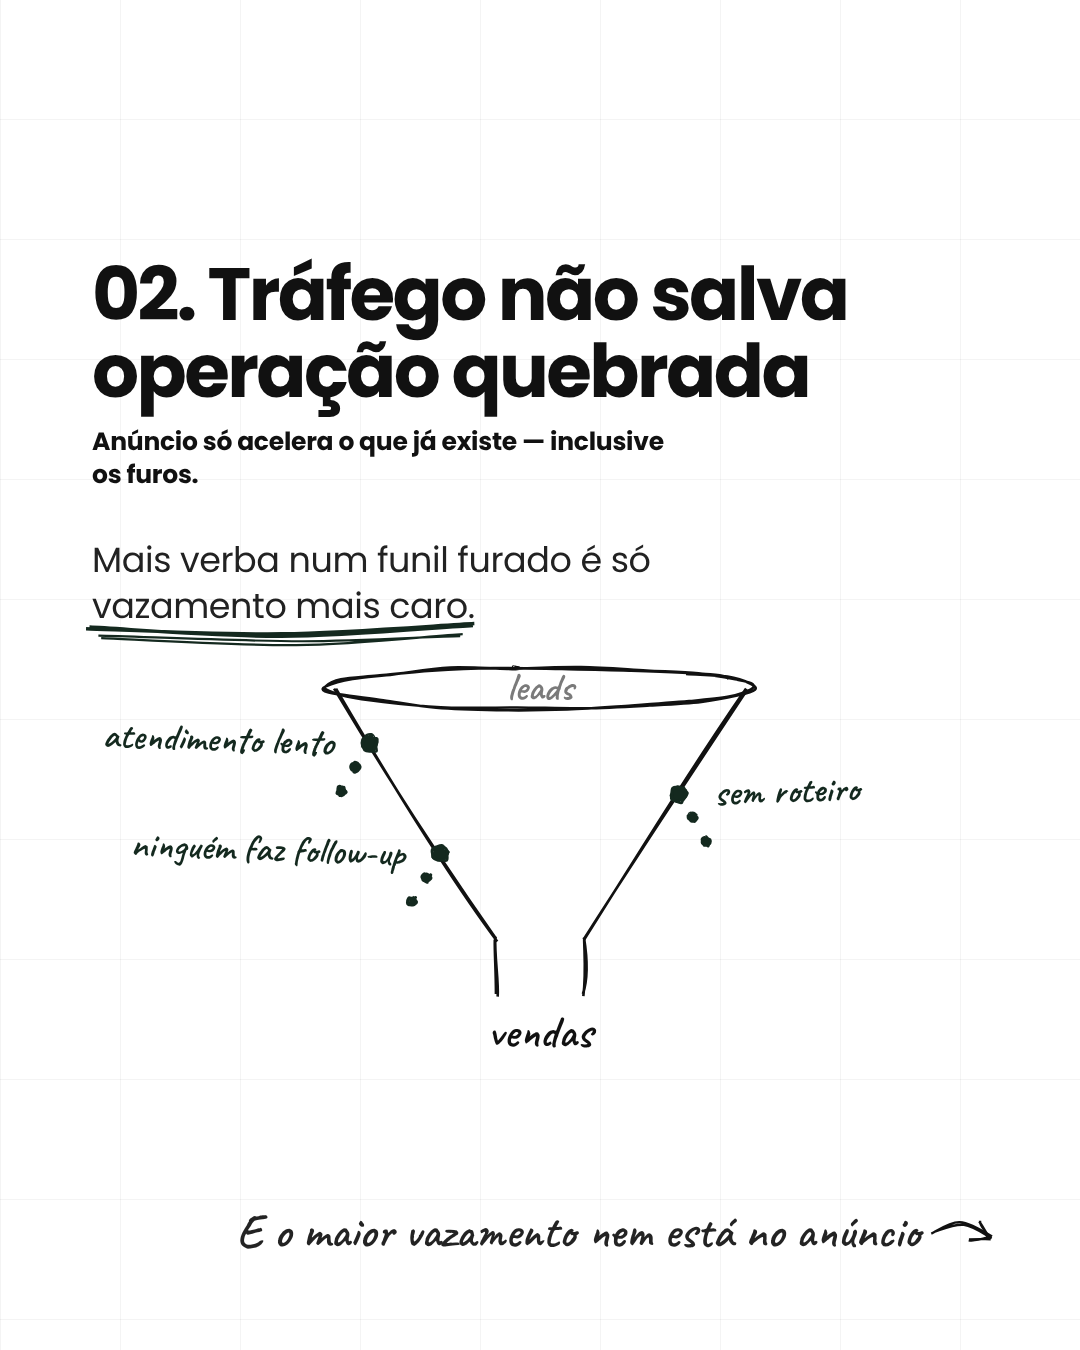
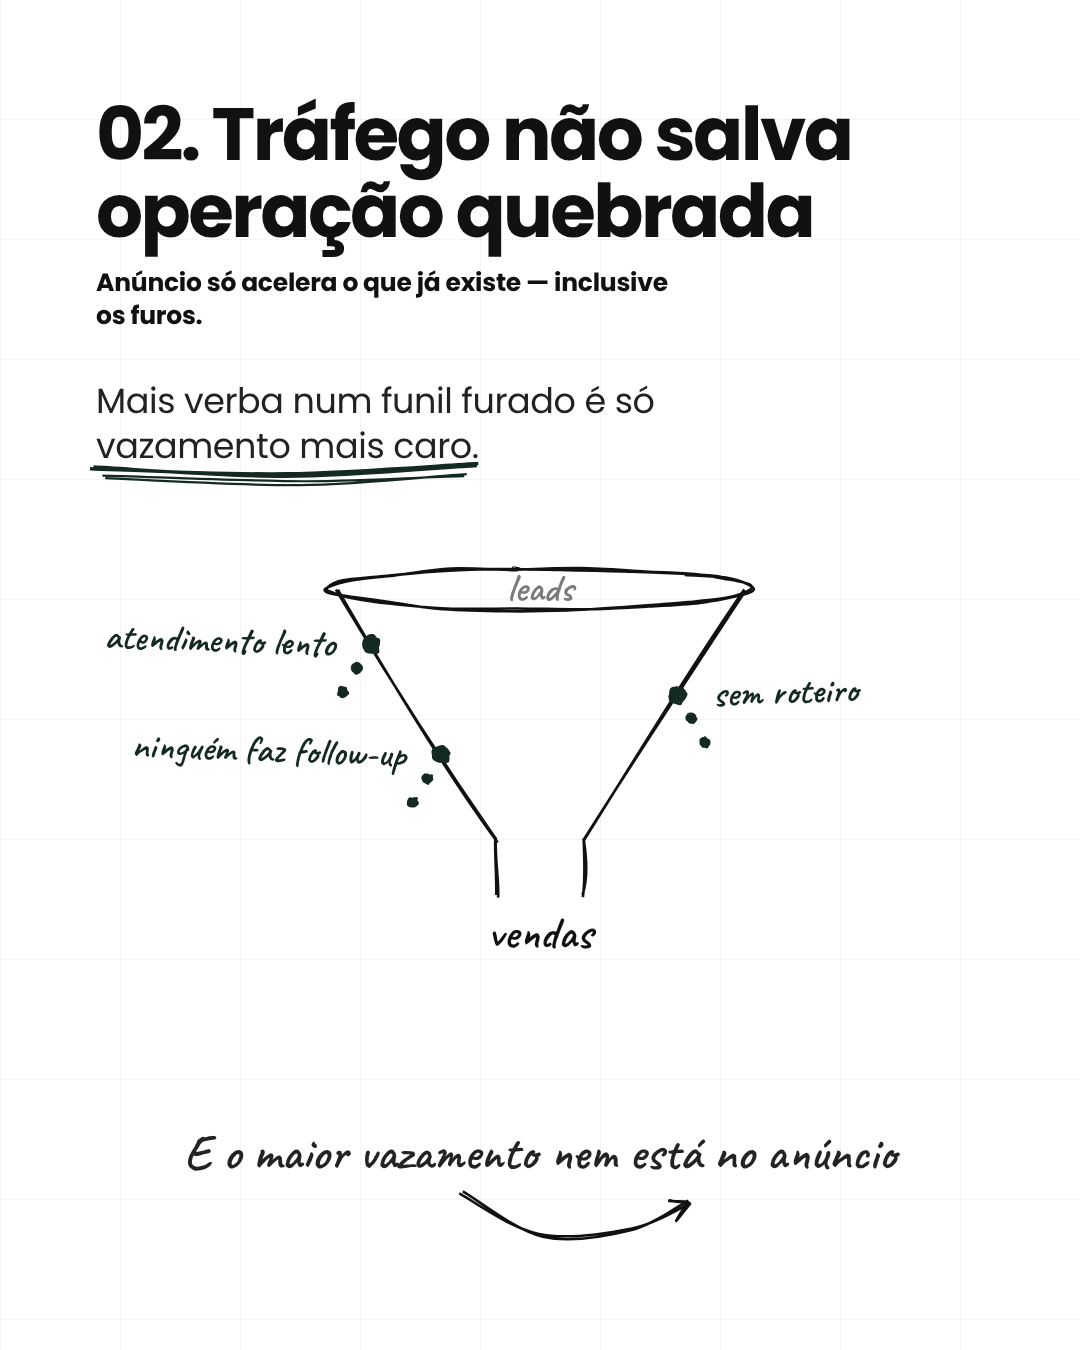
Margens proporcionais (96px) e ganchos com 5 estilos alternados
Claude-Session: https://claude.ai/code/session_01CR2zLXebwu2nvAjBiSDjK9

diff --git a/carrossel/index.html b/carrossel/index.html
@@ -92,7 +92,7 @@ body.render .frame .num{display:none}
 .ft{position:absolute;left:0;right:0;bottom:70px;display:flex;justify-content:center;z-index:5}
 .ft .lb{font:600 23px Poppins,sans-serif;color:var(--ink);letter-spacing:-.005em}
 /* corpo do slide de conteúdo */
-.body{position:absolute;left:92px;right:92px;top:190px;bottom:150px;display:flex;flex-direction:column;justify-content:center;padding-bottom:40px}
+.body{position:absolute;left:96px;right:96px;top:190px;bottom:150px;display:flex;flex-direction:column;justify-content:center;padding-bottom:40px}
 .kick{font:600 21px Poppins,sans-serif;letter-spacing:.38em;text-transform:uppercase;color:var(--ac);margin-bottom:34px}
 .ttl{font:700 74px/1.04 Poppins,sans-serif;letter-spacing:-.035em;margin:0;color:var(--ink);max-width:820px}
 .ttl .n{letter-spacing:-.04em}
@@ -105,10 +105,17 @@ body.render .frame .num{display:none}
 .lst .ds{color:var(--muted)}
 .lst .no{font-weight:700;color:var(--ink);margin-right:18px}
 .pics{display:flex;gap:20px;margin-top:44px}
-.draw{position:relative;margin-top:36px;width:100%}
+.body.flow{top:96px;bottom:96px;left:96px;right:96px;justify-content:flex-start;padding-bottom:0}
+.draw{position:relative;width:100%;flex:1 1 auto;min-height:220px;max-height:430px;margin:auto 0}
+.spacer{flex:1 1 auto}
 .ovl{position:absolute;left:0;top:0;width:1080px;height:1350px;z-index:6;pointer-events:none;overflow:visible}
 .ovl text{font-family:Caveat,cursive;font-weight:600}
-.gancho{position:absolute;right:160px;bottom:92px;z-index:5;font:600 48px/1.1 Caveat,cursive;color:var(--ink);opacity:.92;text-align:right;max-width:760px}
+.gancho{position:relative;z-index:5;margin-top:34px;font:600 50px/1.1 Caveat,cursive;color:var(--ink);opacity:.92;max-width:100%}
+.g0{align-self:flex-end;padding-right:86px;text-align:right}
+.g1{align-self:flex-start;padding-bottom:78px}
+.g2{align-self:center;text-align:center;padding-bottom:74px}
+.g3{align-self:flex-end;padding:12px 28px 14px;margin-right:84px;white-space:nowrap;font-size:44px}
+.g4{align-self:flex-start;padding-right:86px;padding-bottom:16px}
 .hc,.hu{position:relative;white-space:nowrap}
 .pics.first{margin-top:0;margin-bottom:48px}
 .pic{flex:1;min-width:0;border-radius:22px;overflow:hidden;background:#e6e6e6}
@@ -116,7 +123,7 @@ body.render .frame .num{display:none}
 .cap{margin-top:14px;font:500 19px Poppins,sans-serif;letter-spacing:.02em;color:var(--muted)}
 .pics.first+.cap{margin:-34px 0 48px}
 /* CTA / resumo */
-.ctt{font:700 96px/1.04 Poppins,sans-serif;letter-spacing:-.04em;margin:0;color:var(--ink)}
+.ctt{font:700 86px/1.04 Poppins,sans-serif;letter-spacing:-.04em;margin:0;color:var(--ink)}
 .ctt em{font-style:italic}
 .ctx{margin-top:40px;font:400 31px/1.42 Poppins,sans-serif;color:var(--muted);max-width:560px}
 .cta{margin-top:70px;font:700 31px Poppins,sans-serif;letter-spacing:-.01em;color:var(--ink)}
@@ -265,6 +272,7 @@ const TIPOS = {
     ["desenho","sel","Desenho à mão",["","alvo","funil","bolhas","grafico","pipeline"]],
     ["rotulos","text","Rótulos do desenho (separe com |)"],
     ["gancho","area","Gancho para o próximo slide (letra de mão)"],
+    ["gancho_estilo","sel","Estilo do gancho (vazio = alterna)",["","0","1","2","3","4"]],
     ["rodape","text","Rodapé (opcional)"],
   ]},
   foto:{nome:"Foto cheia", campos:[
@@ -385,16 +393,16 @@ function renderSlide(s, i, total){
   const corpo = (s.texto||itens||s.texto_final)?`<div class="txt">${paras(s.texto)}${itens?`<ul class="lst">${itens}</ul>`:""}${paras(s.texto_final)}</div>`:"";
   return `<div class="slide paper ${tema}" style="${acc}">
     ${header()}
-    <div class="body">
+    <div class="body flow">
       ${pos==="antes do título"?pics:""}
       ${s.titulo||num?`<h2 class="ttl">${num}${fmt(s.titulo)}</h2>`:""}
       ${s.subtitulo?`<div class="st">${fmt(s.subtitulo)}</div>`:""}
       ${pos==="depois do subtítulo"?pics:""}
       ${corpo}
       ${pos==="depois do texto"?pics:""}
-      ${s.desenho?`<div class="draw" data-kind="${esc(s.desenho)}" data-labels="${esc(s.rotulos||"")}" style="height:${Number(s.altura_desenho)||360}px"></div>`:""}
+      ${s.desenho?`<div class="draw" data-kind="${esc(s.desenho)}" data-labels="${esc(s.rotulos||"")}"></div>`:`<div class="spacer"></div>`}
+      ${s.gancho?`<div class="gancho g${s.gancho_estilo!=null&&s.gancho_estilo!==""?Number(s.gancho_estilo)%5:i%5}">${fmt(s.gancho)}</div>`:""}
     </div>
-    ${s.gancho?`<div class="gancho">${fmt(s.gancho)}</div>`:""}
     ${footer(s.rodape)}
   </div>`;
 }
@@ -426,7 +434,22 @@ function drawAll(root){
       add(rc.curve([[b.x-4,y],[b.x+b.w*.5,y+7],[b.x+b.w+6,y-3]],O({stroke:ac,strokeWidth:3.4,roughness:1.8})));
       add(rc.curve([[b.x+8,y+10],[b.x+b.w*.55,y+15],[b.x+b.w-4,y+8]],O({stroke:ac,strokeWidth:2.2,roughness:2})))});
     // gancho: seta à mão depois do texto
-    const g=sl.querySelector(".gancho"); if(g){const b=offs(g,sl); arrow(b.x+b.w+12,b.y+b.h*.55,b.x+b.w+70,b.y+b.h*.55+4,{lift:14,stroke:ink})}
+    const head=(pts,o={})=>{const n=pts.length,[x1,y1]=pts[n-2],[x2,y2]=pts[n-1],a=Math.atan2(y2-y1,x2-x1),L=22;
+      add(rc.curve(pts,O({strokeWidth:2.6,...o})));
+      add(rc.line(x2,y2,x2-L*Math.cos(a-0.5),y2-L*Math.sin(a-0.5),O({strokeWidth:2.6,...o})));
+      add(rc.line(x2,y2,x2-L*Math.cos(a+0.5),y2-L*Math.sin(a+0.5),O({strokeWidth:2.6,...o})))};
+    const g=sl.querySelector(".gancho");
+    if(g){const b=offs(g,sl); const r=b.x+b.w, my=b.y+b.h*.5;
+      if(g.classList.contains("g0")){ head([[r-74,my+4],[r-40,my-8],[r-6,my+2]]) }
+      else if(g.classList.contains("g1")){ const sx=b.x+30, sy=b.y+b.h-62;
+        head([[sx,sy+6],[sx+26,sy+44],[sx+4,sy+58],[sx-6,sy+34],[sx+70,sy+44],[sx+200,sy+40],[sx+300,sy+20]]) }
+      else if(g.classList.contains("g2")){ const sx=b.x+b.w*.5, sy=b.y+b.h-60;
+        head([[sx-80,sy],[sx,sy+40],[sx+90,sy+36],[sx+150,sy+8]]) }
+      else if(g.classList.contains("g3")){ add(rc.rectangle(b.x,b.y,b.w,b.h,O({strokeWidth:2.4,roughness:1.8})));
+        head([[r+6,my],[r+40,my-14],[r+76,my+6]]) }
+      else { add(rc.curve([[b.x,b.y+b.h-6],[b.x+b.w*.5,b.y+b.h+2],[r-90,b.y+b.h-8]],O({stroke:ac,strokeWidth:3})));
+        head([[r-74,my+6],[r-44,my-6],[r-8,my+4]]) }
+    }
     // desenhos
     sl.querySelectorAll(".draw").forEach(d=>{
       const b=offs(d,sl), k=d.dataset.kind, L=(d.dataset.labels||"").split("|").map(x=>x.trim());

diff --git a/carrossel/ESTILO.md b/carrossel/ESTILO.md
@@ -67,4 +67,7 @@ O slide 1 do roteiro usa `"tipo": "pronta"` apontando para `capa/capa.png`.
 - **Desenhos à mão** (`"desenho"` + `"rotulos"` separados por `|`), estilo rabisco (rough.js):
   `alvo` (lista riscada → alvo), `funil` (funil com furos), `bolhas` (pequeno vs grande), `grafico` (curva caindo), `pipeline` (3 etapas).
 - Marcações no texto: `[[palavra]]` = círculo à mão · `{{palavra}}` = sublinhado à mão.
-- Um desenho por slide no máximo; o texto encolhe para dar espaço ao desenho.
+- Um desenho por slide no máximo; ele ocupa o espaço livre entre o texto e o gancho, centralizado.
+- **Margens proporcionais:** 96 px nos 4 lados. Título começa na margem de cima; gancho apoia na margem de baixo.
+- **Gancho varia** de slide para slide (alterna sozinho, ou fixe com `"gancho_estilo"` 0–4):
+  0 direita + seta curta · 1 esquerda + seta com laço · 2 centro + seta curva embaixo · 3 dentro de caixa à mão + seta · 4 esquerda sublinhado + seta.
